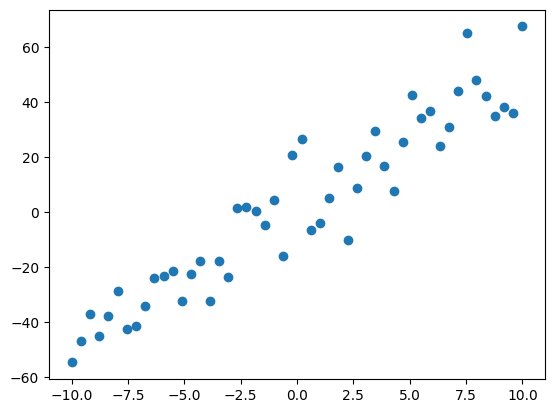
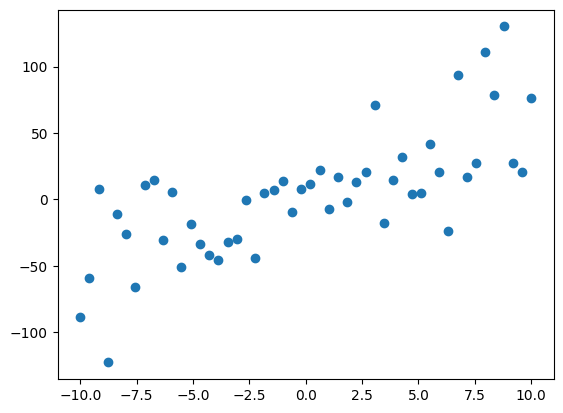
Made the function more interesting

diff --git a/test.py b/test.py
@@ -5,7 +5,8 @@ from profilehist import PlotProfileHistogram
 
 x_data = np.linspace(-10, +10, 50)
 
-y_data = x_data * 5.0 + 3.5 + 10.0 * np.random.normal(0, 1.0, size=len(x_data))
+# generate some linear y_data with a noise term dependent on X
+y_data = (x_data * 5.0 + 3.5) + ((abs(x_data / 2.0) + 1.0) * 10.0 * np.random.normal(0, 1.0, size=len(x_data)))
 
 plt.scatter(x_data, y_data)
 plt.savefig("Original-scatter.png", bbox_inches='tight')
